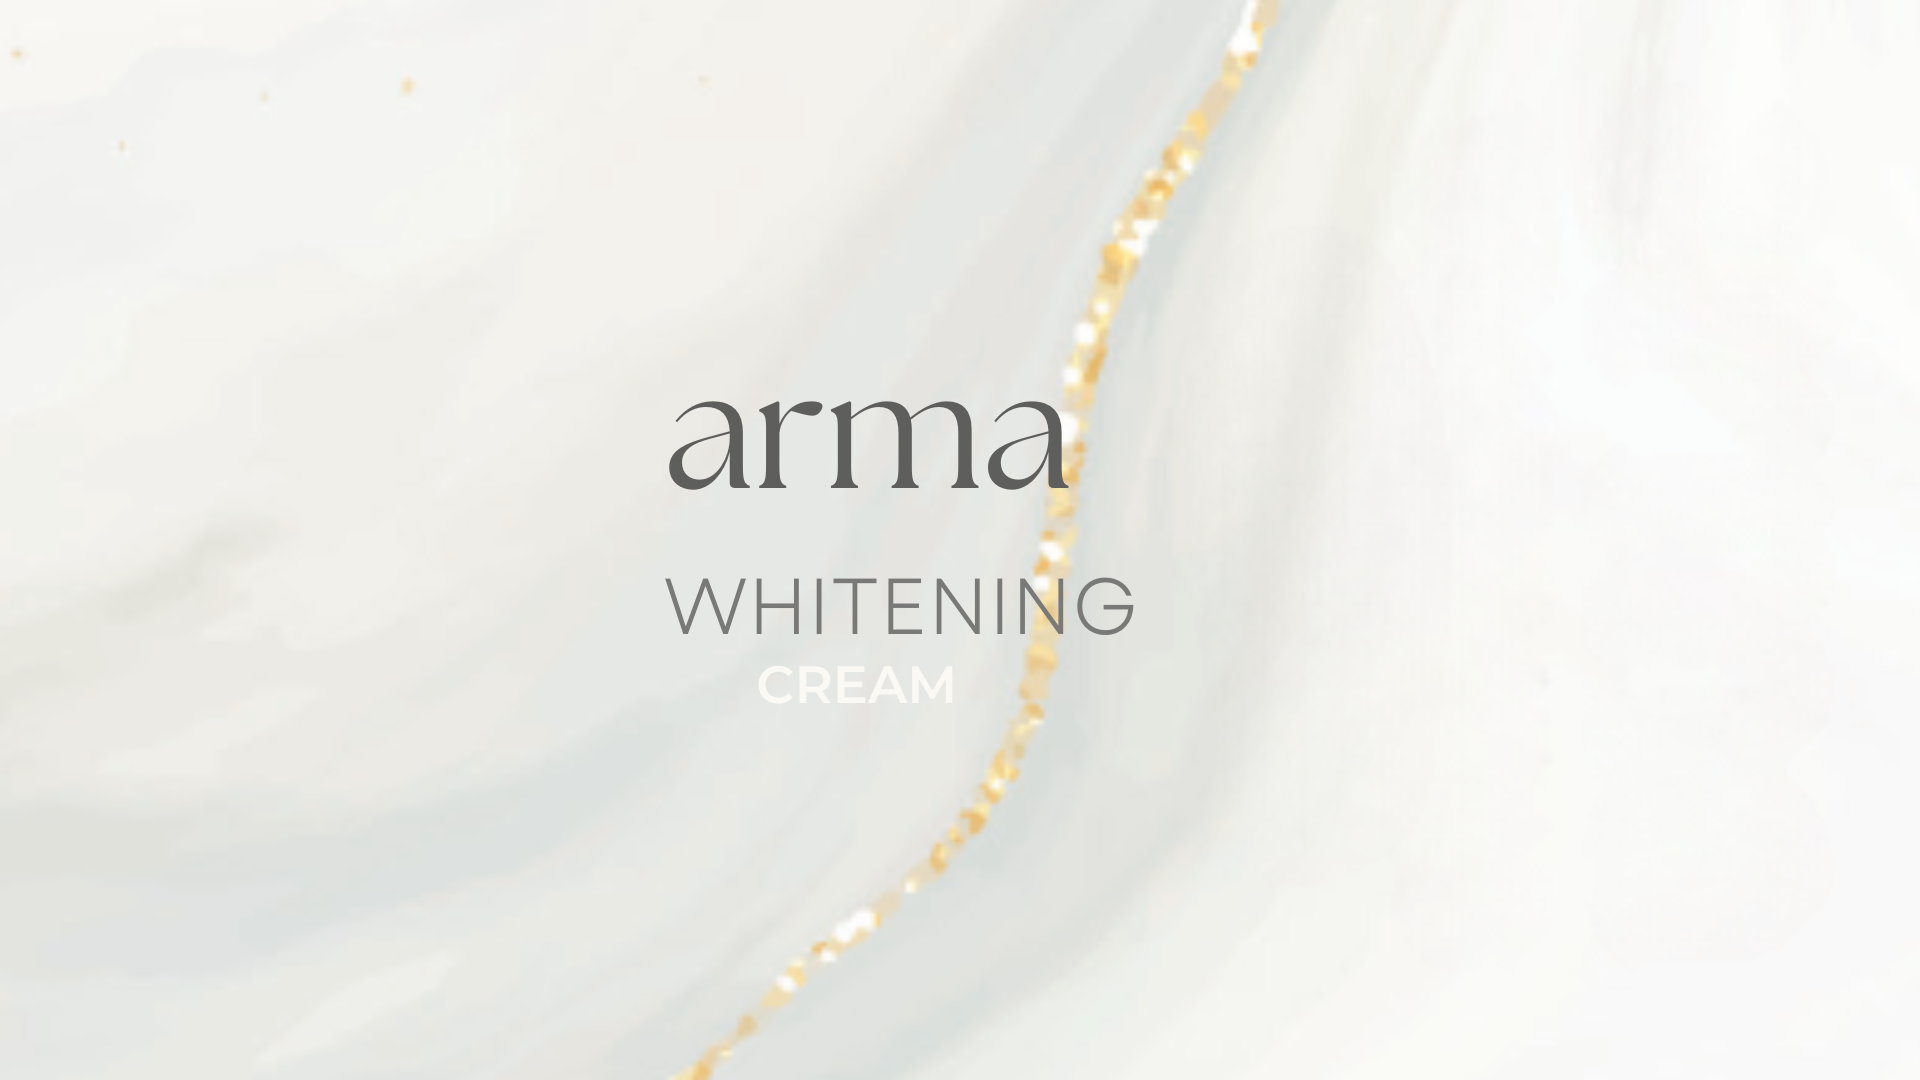
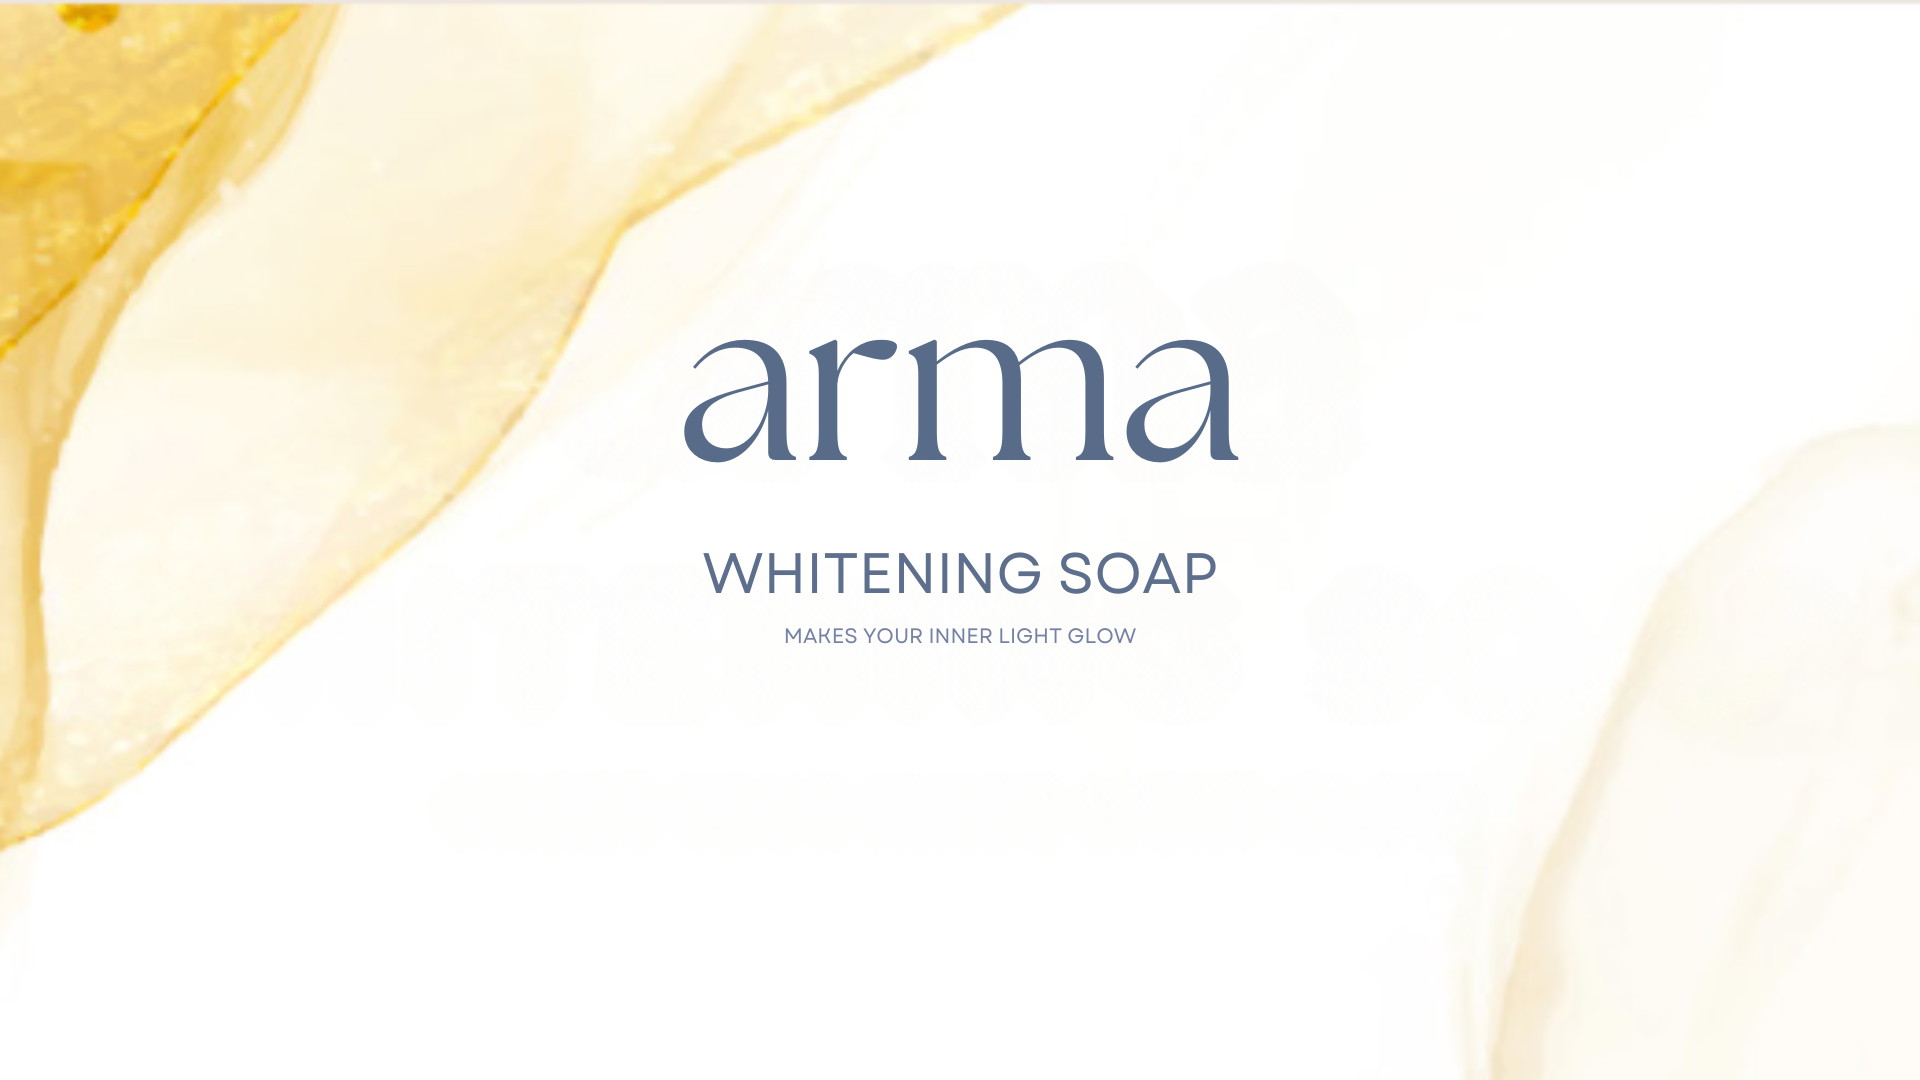
add

diff --git a/src/data.ts b/src/data.ts
@@ -45,6 +45,7 @@ export const data = [
       "acnicream/3.png",
       "acnicream/4.png",
     ],
+    banner: "acnicream/banner.png",
   },
   {
     id: "armabeautylotion",
@@ -76,6 +77,7 @@ export const data = [
       "whiteningcream/3.png",
       "whiteningcream/4.png",
     ],
+    banner: "whiteningcream/banner.png",
   },
   {
     id: "facialcleanser",
@@ -147,5 +149,6 @@ export const data = [
       fr: "Expérimentez le pouvoir purifiant de notre Savon contre l'Acné. Ce pain est mélangé avec de l'acide salicylique, de l'huile d'arbre à thé, de la caféine, du peroxyde de benzoyle et de Aloe Vera', extrait les impuretés, combat les bactéries et réduit l'excès de sébum, laissant votre peau rafraîchie et revitalisée.",
     },
     img: ["acnesoap/1.png", "acnesoap/2.png", "acnesoap/3.png"],
+    banner: "acnesoap/banner.png",
   },
 ];

diff --git a/src/app/products/[name]/page.tsx b/src/app/products/[name]/page.tsx
@@ -19,6 +19,9 @@ const page = ({ params }: { params: { name: string } }) => {
             background: product[0].banner
               ? `url(/${product[0].banner})`
               : "rgba(8, 74, 121, 0.6)",
+            backgroundSize: "fill",
+            backgroundPosition: "top top",
+            backgroundRepeat: "no-repeat",
           }}
         ></div>
         <h1 className="w-full absolute top-[50%] left-[50%] -translate-y-[50%]  -translate-x-[50%] text-center text-white text-3xl md:text-5xl">

diff --git a/src/app/about/page.tsx b/src/app/about/page.tsx
@@ -25,7 +25,7 @@ const page = () => {
         <img
           src="/aboutus.png"
           alt=""
-          className="w-full h-[400px] object-cover flex items-center"
+          className="w-full h-[400px] object-fill flex items-center"
         />
         <div className="overlay w-full absolute left-0 top-0 h-[400px] bg-black"></div>
         <h1 className="w-full absolute top-[50%] left-[50%] -translate-y-[50%] -translate-x-[50%] text-center text-white text-3xl md:text-5xl">

diff --git a/src/app/products/page.tsx b/src/app/products/page.tsx
@@ -16,7 +16,7 @@ const page = () => {
           loading="lazy"
           src="/ourproducts.png"
           alt=""
-          className="w-full h-[400px] object-cover"
+          className="w-full h-[140px] md:h-[400px] object-fill"
         />
         <h1 className="w-full absolute top-[50%] left-[50%] -translate-y-[50%] -translate-x-[50%] text-center text-white text-3xl md:text-5xl">
           {t("our_products")}

diff --git a/src/app/components/HomeSwiperStyles/styles.css b/src/app/components/HomeSwiperStyles/styles.css
@@ -10,11 +10,11 @@
 
 .HomeSwiper {
   width: 100%;
-  height: 90% !important;
+  height: 95% !important;
 }
 
 .HomeSwiper .swiper-slide {
-  height: 90%;
+  height: 95%;
   margin-top: 0;
 }
 
